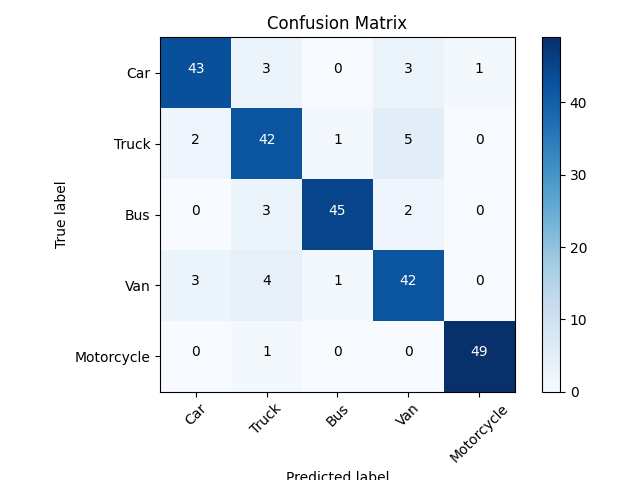
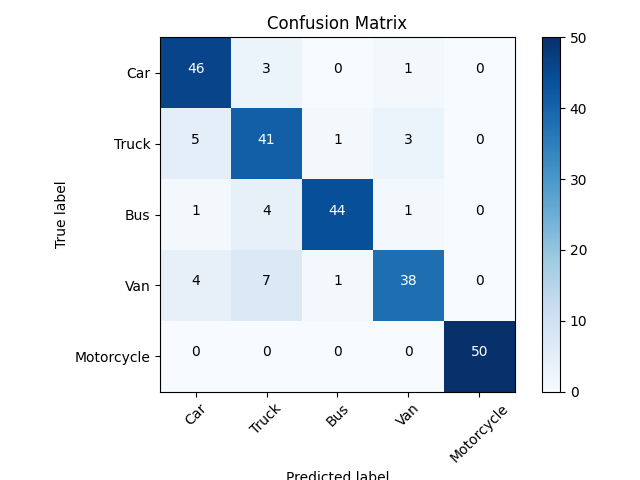
-

diff --git a/python_modules/efficientnet.py b/python_modules/efficientnet.py
@@ -26,9 +26,9 @@ import matplotlib.pyplot as plt
 import os
 
 # Set the different datasets paths
-train_path = '../partial_ds/train'
-valid_path = '../partial_ds/valid'
-test_path = '../partial_ds/test'
+train_path = '../augmented_ds/train'
+valid_path = '../augmented_ds/valid'
+test_path = '../augmented_ds/test'
 
 # Load the sets
 train_batches = ImageDataGenerator(tf.keras.applications.efficientnet.preprocess_input) \
@@ -101,7 +101,7 @@ else:
 	model.summary()
 	
 	learning_rate = 0.0001
-	optimizer = Adam(learnging_rate=learning_rate)
+	optimizer = Adam(learning_rate=learning_rate)
 	loss = 'categorical_crossentropy'
 	epochs = 10
 	

diff --git a/python_modules/fine_tuning_demo.py b/python_modules/fine_tuning_demo.py
@@ -87,7 +87,7 @@ else:
 	model.summary()
 
 	model.compile(optimizer=Adam(learning_rate=0.0001), loss='categorical_crossentropy', metrics=['accuracy'])
-	model.fit(x=train_batches, validation_data=valid_batches, epochs=5, verbose=2)
+	model.fit(x=train_batches, validation_data=valid_batches, epochs=10, verbose=2)
 	model.save("fine_tuning_demo.h5")
 	#assert model.history.history.get('accuracy')[-1] > 0.95
 
